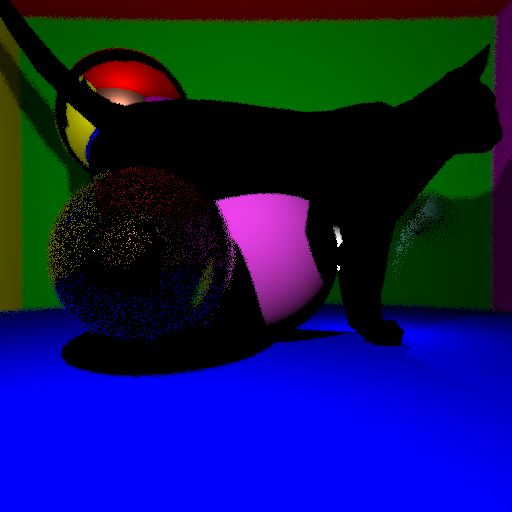
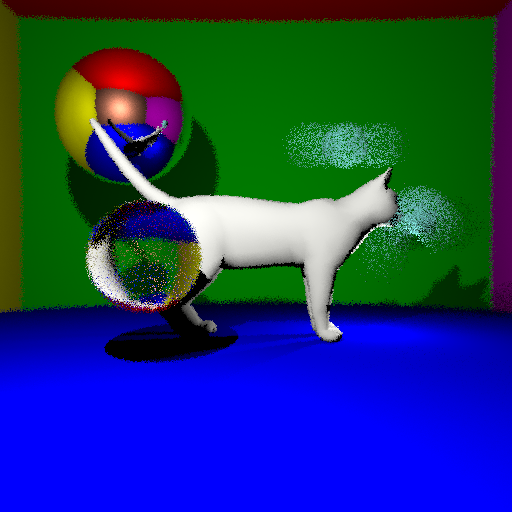
Rendering of meshes with normal maps and uniform albedo, scaling of meshes, rewriting of most code around Geometry and Cast

diff --git a/main.cpp b/main.cpp
@@ -98,23 +98,41 @@ struct Intersection {
     Vector position;
     double t;
     bool inside;
+    Vector normal;
+    Intersection(bool fla, Vector pos, double ti, bool insid, Vector norm) : flag(fla), position(pos), t(ti), inside(insid), normal(norm) {}
+};
+
+struct Cast{
+    Intersection intersect;
+    Vector albedo;
+    bool mirror;
+    bool transp;
+    double refraction;
+    // If necessary, add pointer to geometry
+    Cast(Intersection inter, Vector alb, double refr) : intersect(inter), albedo(alb), refraction(refr) {
+        if (refraction == -1){
+            mirror = false;
+            transp = false;
+        }
+        else if (refraction == 0){
+            transp = false;
+            mirror = true;
+        }
+        else{
+            transp = true;
+            mirror = false;
+        }
+    }
 };
 
 class Geometry{
     public:
         virtual ~Geometry() {}
-        Vector albedo;
         Vector origin;
-        bool mirror;
-        bool transp;
-        double refraction;
         Vector (*movement)(double);
-        virtual Intersection intersect(Ray &r, double time) = 0;
+        double refraction;
+        virtual Cast intersect(Ray &r, double time) = 0;
 };
-
-Intersection make_intersection(bool flag, Vector position, double t, bool inside){
-    return {flag, position, t, inside};
-}
 
 Vector constant_position(double t){return Vector(0,0,0);}
 
@@ -132,22 +150,24 @@ Vector throw_movement(double t){
     return Vector(8*tp,25*tp - 20*pow(tp, 2),0);
 }
 
-Intersection triangle_intersect(Vector A, Vector B, Vector C, Ray &r){
+Intersection triangle_intersect(Vector A, Vector B, Vector C, Ray &r, Vector normalA, Vector normalB, Vector normalC){
     Vector e1 = B-A;
     Vector e2 = C-A;
     Vector N = cross(e1, e2);
     double dotUN = dot(r.unit, N);
     if (dotUN == 0){
-        return make_intersection(false, Vector(0,0,0), 0, false);
+        return Intersection(false, Vector(0,0,0), 0, false, N);
     }
     double beta = dot(e2, cross(A - r.origin, r.unit))/dotUN;
     double gamma = -dot(e1, cross(A - r.origin, r.unit))/dotUN;
     double alpha = 1 - beta - gamma;
-    if (0<=alpha && alpha<=1 && 0<=beta && beta<=1 && 0<=gamma && gamma<=1){
-        double t = dot(A - r.origin, N)/dotUN;
-        return make_intersection(true, A + beta*e1 + gamma*e2, t, false);
+    double t = dot(A - r.origin, N)/dotUN;
+    if (0<=alpha && alpha<=1 && 0<=beta && beta<=1 && 0<=gamma && gamma<=1 && t>0){
+        Vector shading_normal = alpha * normalA + beta * normalB + gamma * normalC;
+        shading_normal.normalize();
+        return Intersection(true, A + beta*e1 + gamma*e2, t, false, shading_normal);
     }
-    return make_intersection(false, Vector(0,0,0), 0, false);
+    return Intersection(false, Vector(0,0,0), 0, false, Vector(0,0,1));
 }
 
 class TriangleMesh : public Geometry {
@@ -157,30 +177,32 @@ public:
     explicit TriangleMesh(const char* obj, Vector ori, double rescale = 1, double refr = -1, Vector (*m)(double) = &constant_position){
         readOBJ(obj);
         origin = ori;
-        movement = m;
-        // TODO fill albedo | mirror/transp/refraction ?
-        albedo = Vector(255, 255, 255);
-        mirror = false;
-        transp = false;
         refraction = -1;
+        movement = m;
+        if (rescale != 1){
+            for (size_t i = 0; i<vertices.size(); i++){
+                vertices[i] = vertices[i]*rescale;
+            }
+        }
     }
 	
-    Intersection intersect(Ray &r, double time) override {
+    Cast intersect(Ray &r, double time) override {
         if (indices.size() == 0){
-            return make_intersection(false, r.origin, 0, false);
+            return Cast(Intersection(false, r.origin, 0, false, Vector(0,0,1)), Vector(0,0,0), -1);
         }
         TriangleIndices index = indices[0];
         Vector origint = origin + movement(time);
-        Intersection best = triangle_intersect(origint+vertices[index.vtxi], origint+vertices[index.vtxj], origint+vertices[index.vtxk], r);
-        Intersection current_intersect;
+        Intersection best_inter = triangle_intersect(origint+vertices[index.vtxi], origint+vertices[index.vtxj], origint+vertices[index.vtxk], r, normals[index.ni], normals[index.nj], normals[index.nk]);
+        size_t best_index = 0;
         for (size_t i=1; i<indices.size(); i++){
             index = indices[i];
-            current_intersect = triangle_intersect(origint+vertices[index.vtxi], origint+vertices[index.vtxj], origint+vertices[index.vtxk], r);
-            if (best.flag == false || (current_intersect.flag == true && current_intersect.t < best.t)){
-                best = current_intersect;
+            Intersection current_intersect = triangle_intersect(origint+vertices[index.vtxi], origint+vertices[index.vtxj], origint+vertices[index.vtxk], r, normals[index.ni], normals[index.nj], normals[index.nk]);
+            if (best_inter.flag == false || (current_intersect.flag == true && current_intersect.t < best_inter.t)){
+                best_inter = current_intersect;
+                best_index = i;
             }
         }
-        return best;
+        return Cast(best_inter, Vector(255, 255, 242), refraction); // TODO update uvs
     }
     
 	void readOBJ(const char* obj) {
@@ -360,38 +382,27 @@ public:
 	std::vector<Vector> vertices;
 	std::vector<Vector> normals;
 	std::vector<Vector> uvs;
-	std::vector<Vector> vertexcolors;
+	std::vector<Vector> vertexcolors; // Colors between 0 and 1
 	
 };
 
 class Sphere : public Geometry {
 public:
     double radius;
+    Vector albedo;
     explicit Sphere(Vector o, double R, Vector c, double refr = -1, Vector (*m)(double) = &constant_position){
         origin = o;
         radius = R;
         albedo = c;
         movement = m;
         refraction = refr;
-        if (refraction == -1){
-            mirror = false;
-            transp = false;
-        }
-        else if (refraction == 0){
-            transp = false;
-            mirror = true;
-        }
-        else{
-            transp = true;
-            mirror = false;
-        }
     }
-    Intersection intersect(Ray &r, double time) override {
+    Cast intersect(Ray &r, double time) override {
         Vector origint = origin + (*movement)(time);
         Vector omc = r.origin - origint;
         double delta = pow(dot(r.unit, omc), 2) - (dot(omc, omc) - pow(radius, 2));
         if (delta<0){
-            return make_intersection(false, r.origin, 0, false);
+            return Cast(Intersection(false, r.origin, 0, false, Vector(0,0,1)), albedo, refraction);
         }
         double sq_delta = sqrt(delta);
         double t = dot(r.unit, origint-r.origin) - sq_delta;
@@ -399,29 +410,26 @@ public:
         if (t<0){
             t += 2*sq_delta;
             if (t<0){
-                return make_intersection(false, r.origin, 0, false);
+                return Cast(Intersection(false, r.origin, 0, false, Vector(0,0,1)), albedo, refraction);
             }
             inside = true;
         }
-        return make_intersection(true, r.origin + r.unit*t, t, inside);
+        Vector normal = (r.origin + r.unit*t) - origint;
+        normal.normalize();
+        if (inside == true){normal = -normal;}
+        return Cast(Intersection(true, r.origin + r.unit*t, t, inside, normal), albedo, refraction);
     }
-};
-
-struct Cast{
-    Intersection intersect;
-    Geometry* sphere;
 };
 
 Cast scene_intersect(std::vector<Geometry*> &scene, Ray &r, double t){
     if (scene.size() == 0){
-        return {false, r.origin, 0};
+        return Cast(Intersection(false, r.origin, 0, false, Vector(0,0,1)), Vector(0,0,0), -1);
     }
-    Cast best = {scene[0]->intersect(r, t), scene[0]};
-    Intersection current_intersect;
+    Cast best = scene[0]->intersect(r, t);
     for (size_t i=1; i<scene.size(); i++){
-        current_intersect = scene[i]->intersect(r, t);
-        if (best.intersect.flag == false || (current_intersect.flag == true && current_intersect.t < best.intersect.t)){
-            best = {current_intersect, scene[i]};
+        Cast current_cast = scene[i]->intersect(r, t);
+        if (best.intersect.flag == false || (current_cast.intersect.flag == true && current_cast.intersect.t < best.intersect.t)){
+            best = current_cast;
         }
     }
     return best;
@@ -505,24 +513,20 @@ Vector get_color_aux(std::vector<Geometry*> &Scene, std::vector<Light> &Lights, 
     Cast cast = scene_intersect(Scene, pr, t);
     double epsilon = 1.0/100000;
     if (cast.intersect.flag == true){
-        Vector sphere_normal = cast.intersect.position - (*cast.sphere).origin;
-        sphere_normal.normalize();
-        Vector normal_towards_ray = sphere_normal;
-        if (cast.intersect.inside == true){
-            normal_towards_ray = -sphere_normal;
-        }
+        Vector normal_towards_ray = cast.intersect.normal;
+
         double dotwin = dot(pr.unit, normal_towards_ray);
         Vector epsilon_above = cast.intersect.position + normal_towards_ray * epsilon;
-        if (cast.sphere->mirror && (reflections_depth>0)){
+        if (cast.mirror && (reflections_depth>0)){
             return get_color_aux(Scene, Lights, Ray(epsilon_above, pr.unit - 2 * dotwin * normal_towards_ray), reflections_depth-1, ray_depth, r1i, r2i, t);
         }
-        else if (cast.sphere->transp){
+        else if (cast.transp){
             // We always assume the sphere is standing in air
             // We add fresnel; if we have to reflect, then do as if it was a mirror; otherwise do normal
             double n1 = 1.0;
-            double n2 = cast.sphere->refraction;
+            double n2 = cast.refraction;
             if (cast.intersect.inside == true){
-                n1 = cast.sphere->refraction;
+                n1 = cast.refraction;
                 n2 = 1;
             }
             double k0 = pow((n1 - n2), 2) / pow(n1 + n2, 2);
@@ -542,9 +546,9 @@ Vector get_color_aux(std::vector<Geometry*> &Scene, std::vector<Light> &Lights, 
             if (in_sqrt<0){
                 std::cout << "WARNING: issue in refraction handling; transparent surface with mirror behaviour from value of refraction index" << std::endl; // thinks it's inside when it's not
                 // This appears when we put the camera inside the lens, for some reason it bugs
-                cast.sphere->mirror = true;
-                cast.sphere->refraction = 0;
-                cast.sphere->transp = false;
+                cast.mirror = true;
+                cast.refraction = 0;
+                cast.transp = false;
                 return get_color_aux(Scene, Lights, pr, reflections_depth, ray_depth, r1i, r2i, t);
             }
             Vector normal_dir = - normal_towards_ray * sqrt(in_sqrt);
@@ -552,7 +556,7 @@ Vector get_color_aux(std::vector<Geometry*> &Scene, std::vector<Light> &Lights, 
             Ray reflected_ray = Ray(epsilon_after, refracted_direction);
             return get_color_aux(Scene, Lights, reflected_ray, reflections_depth-1, ray_depth, r1i, r2i, t);
         }
-        Vector albedo = (*cast.sphere).albedo;
+        Vector albedo = cast.albedo;
 
         for (size_t k=0; k<Lights.size(); k++){
             // First test if there is a shadow
@@ -575,7 +579,7 @@ Vector get_color_aux(std::vector<Geometry*> &Scene, std::vector<Light> &Lights, 
     return color;
 }
 
-Vector get_color(std::vector<Geometry*> &Scene, std::vector<Light> &Lights, int W, int H, int ir, int jr, std::mt19937 *generator, unsigned char reflections_depth = 20, int ray_depth = 0, int monte_carlo_size = 3, double DOF_dist = 55, double DOF_radius = 0.75){
+Vector get_color(std::vector<Geometry*> &Scene, std::vector<Light> &Lights, int W, int H, int ir, int jr, std::mt19937 *generator, unsigned char reflections_depth = 20, int ray_depth = 0, int monte_carlo_size = 2, double DOF_dist = 55, double DOF_radius = 0.75){
     Vector color = Vector(0,0,0);
     std::vector<double> r1v(monte_carlo_size);
     std::vector<double> r2v(monte_carlo_size);
@@ -641,18 +645,18 @@ void concurrent_line(std::vector<Geometry*> Scene, std::vector<Light> Lights, in
 int main(){
     Vector empty_vec = Vector(-1, -1, -1);
     // The SHUTTER TIME for motion blur is always 1 (so movement between t=0 and t=1)
-    std::vector<Geometry*> Scene{new Sphere(Vector(0,0,0), 10, Vector(170, 10, 170)),        // center ball
+    std::vector<Geometry*> Scene{//new Sphere(Vector(0,-3,0), 5, Vector(170, 10, 170)),        // center ball
                                 new Sphere(Vector(0, 1000, 0), 940, Vector(255, 0, 0)),     // top red
                                 new Sphere(Vector(0, 0, -1000), 940, Vector(0, 255, 0)),    // end green
                                 new Sphere(Vector(0, -1000, 0), 990, Vector(0, 0, 255)),    // bottom blue
                                 new Sphere(Vector(0, 0, 1000), 940, Vector(132, 46, 27)),   // back brown
                                 new Sphere(Vector(1000, 0, 0), 940, Vector(255, 0, 255)),   // right pink
                                 new Sphere(Vector(-1000, 0, 0), 940, Vector(255, 255, 0)),  // left orange
-                                new Sphere(Vector(12, 15, -5), 3, Vector(64, 224, 208), -1, &ninja_movement_yellow),      // small turquoise (ninja)
-                                new Sphere(Vector(15, -2, 0), 3, Vector(64, 224, 208), -1, &throw_movement),      // small turquoise (throw)
+                                //new Sphere(Vector(12, 15, -5), 3, Vector(64, 224, 208), -1, &ninja_movement_yellow),      // small turquoise (ninja)
+                                //new Sphere(Vector(15, -2, 0), 3, Vector(64, 224, 208), -1, &throw_movement),      // small turquoise (throw)
                                 new Sphere(Vector(-20, 21, -13), 10, empty_vec, 0),         // left mirror
-                                new Sphere(Vector(-10, 0, 15), 8, empty_vec, 1.49),         // left lens
-                                new TriangleMesh("cat.obj", Vector(0, -10, 0))
+                                new Sphere(Vector(-10, 0, 15), 5, empty_vec, 1.49),         // left lens
+                                new TriangleMesh("cat.obj", Vector(0, -10, 0), 0.6)
                                 };
     std::vector<Light> Lights{  {Vector(-10, 20, 40), 5*10000000},
                                 {Vector(15, 0, -5), 4*1000000}

diff --git a/README.md b/README.md
@@ -3,13 +3,13 @@
 
 TD1: Shadows, mirrors done, transparency too
 
-TD2: random_cos(), antialiasing, depth of field, motion blur
+TD2: indirect lighting, antialiasing, depth of field, motion blur
 
-TD3: cat rendered (black) TODO rewrite get_color_aux (separate case for triangle) by changing the Cast type (intersect returns Cast now) TODO rewrite constructor of triangle mesh based on this
+TD3: cat rendered (fixed albedo), rescaling function, TODO bvh TODO bvhtree TODO uvs 
 
 TD4: TODO
 
-TODO: speed up by reference passing | optimize random number generation (passing general generator pointer to threads ?) | Check complexity with adding multiple lights/randomly pick lights | compute refraction stuff within Sphere?
+TODO: speed up by reference passing/pointer passing? | optimize random number generation (passing general generator pointer to threads ?) | Check complexity with adding multiple lights/randomly pick lights | compute refraction stuff within Sphere?
 TODO: add arguments passing through call instead of recompiling
 TODO: fix camera in a lens?
 TODO: Add different BRDFs
